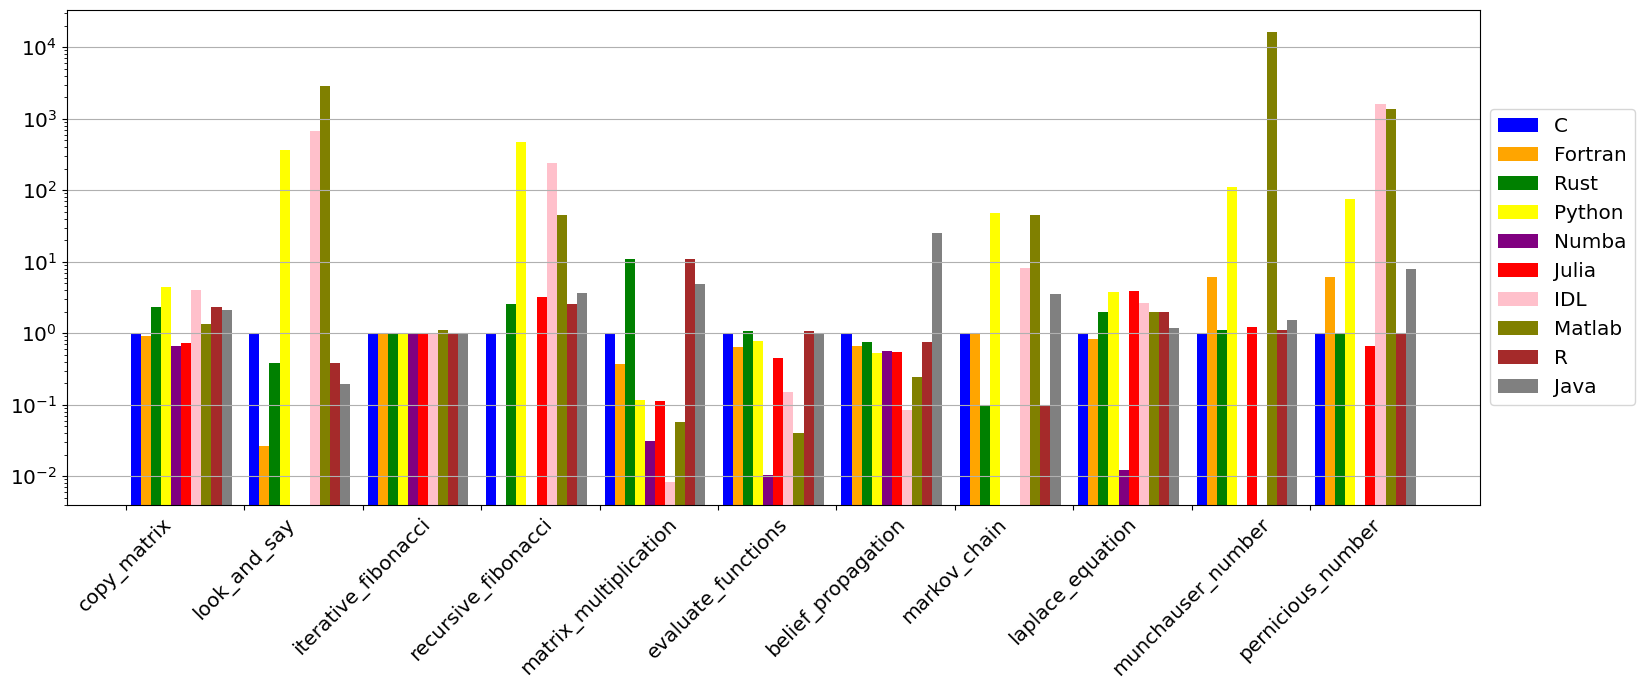
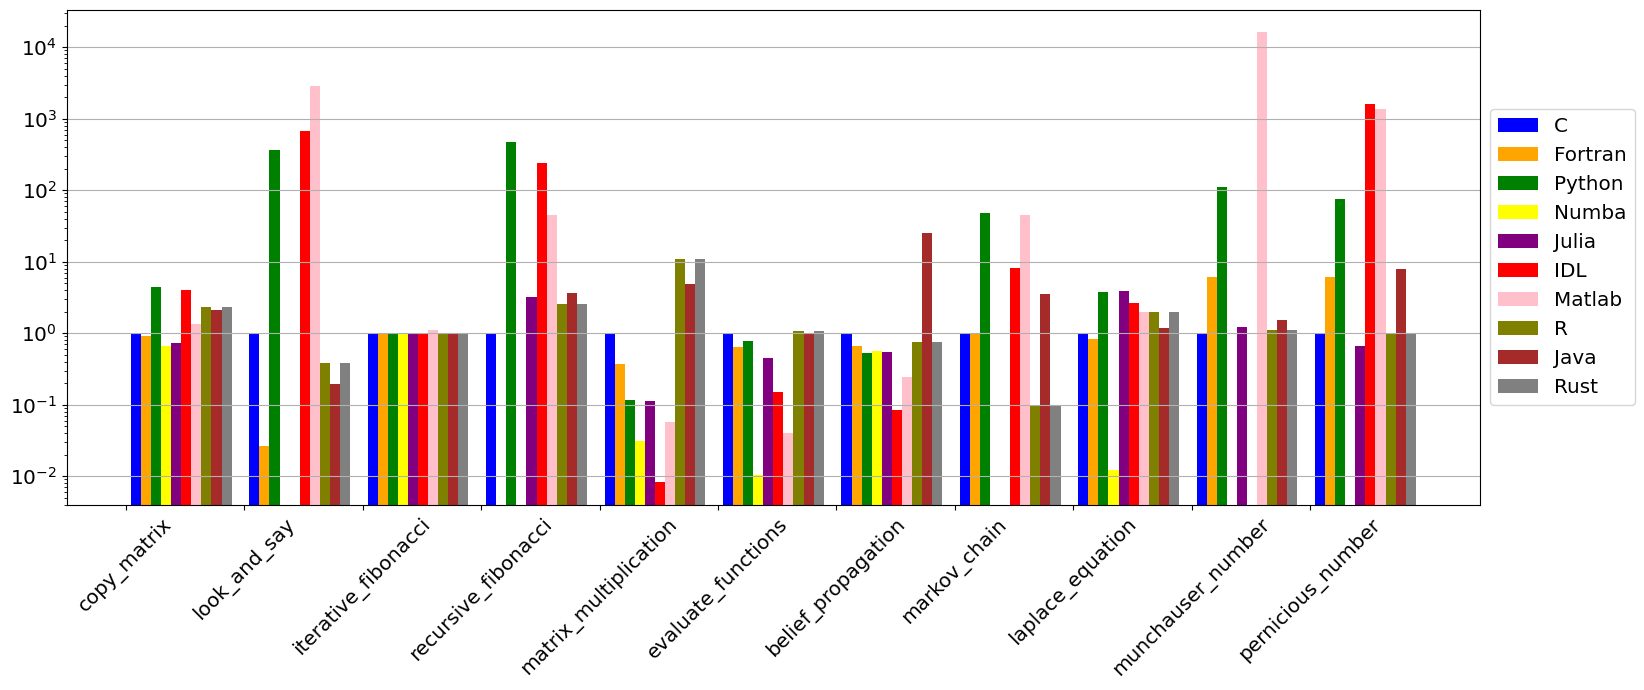
Recreate the plots with Rust data at the end

diff --git a/Plots/plot_timing_histo.py b/Plots/plot_timing_histo.py
@@ -29,8 +29,8 @@ def get_timing(lang, test):
                 break
     return result
 
-languages = ["C", "Fortran", "Rust", "Python", "Numba", "Julia", "IDL", "Matlab", "R", "Java"]
-#languages = ["C", "Fortran", "Rust", "Python", "Numba", "Julia", "IDL", "Matlab", "R", "Java", "Scala"]
+languages = ["C", "Fortran", "Python", "Numba", "Julia", "IDL", "Matlab", "R", "Java", "Rust"]
+#languages = ["C", "Fortran", "Python", "Numba", "Julia", "IDL", "Matlab", "R", "Java", "Scala", "Rust"]
 
 test_cases = ["copy_matrix", "look_and_say", "iterative_fibonacci", "recursive_fibonacci", "matrix_multiplication", "evaluate_functions", "belief_propagation", "markov_chain", "laplace_equation", "munchauser_number", "pernicious_number"]
 

diff --git a/Plots/plot_timing_scatter.py b/Plots/plot_timing_scatter.py
@@ -28,8 +28,8 @@ def get_timing(lang, test):
                 break
     return result
 
-languages = ["C", "Fortran", "Rust", "Python", "Numba", "Julia", "IDL", "Matlab", "R", "Java"]
-#languages = ["C", "Fortran", "Rust", "Python", "Numba", "Julia", "IDL", "Matlab", "R", "Java", "Scala"]
+languages = ["C", "Fortran", "Python", "Numba", "Julia", "IDL", "Matlab", "R", "Java", "Rust"]
+#languages = ["C", "Fortran", "Python", "Numba", "Julia", "IDL", "Matlab", "R", "Java", "Scala", "Rust"]
 
 test_cases = ["copy_matrix", "look_and_say", "iterative_fibonacci", "recursive_fibonacci", "matrix_multiplication", "evaluate_functions", "belief_propagation", "markov_chain", "laplace_equation", "munchauser_number", "pernicious_number"]
 

diff --git a/README.md b/README.md
@@ -290,6 +290,7 @@ It also has sample text files for the **Count Unique Words in a File** test case
 | Matlab | R2023b |
 | GNU Compilers | 13.4.0 |
 
+- Implemented all the testcases with Rust.
 - All the calculations were done in a AMD Milan EPYC node (128 cores, 2.0 Ghz, 512 Gb of memory).
 
 ![Histogram (July2026)](Plots/fig_languages_histo_July2026.png)